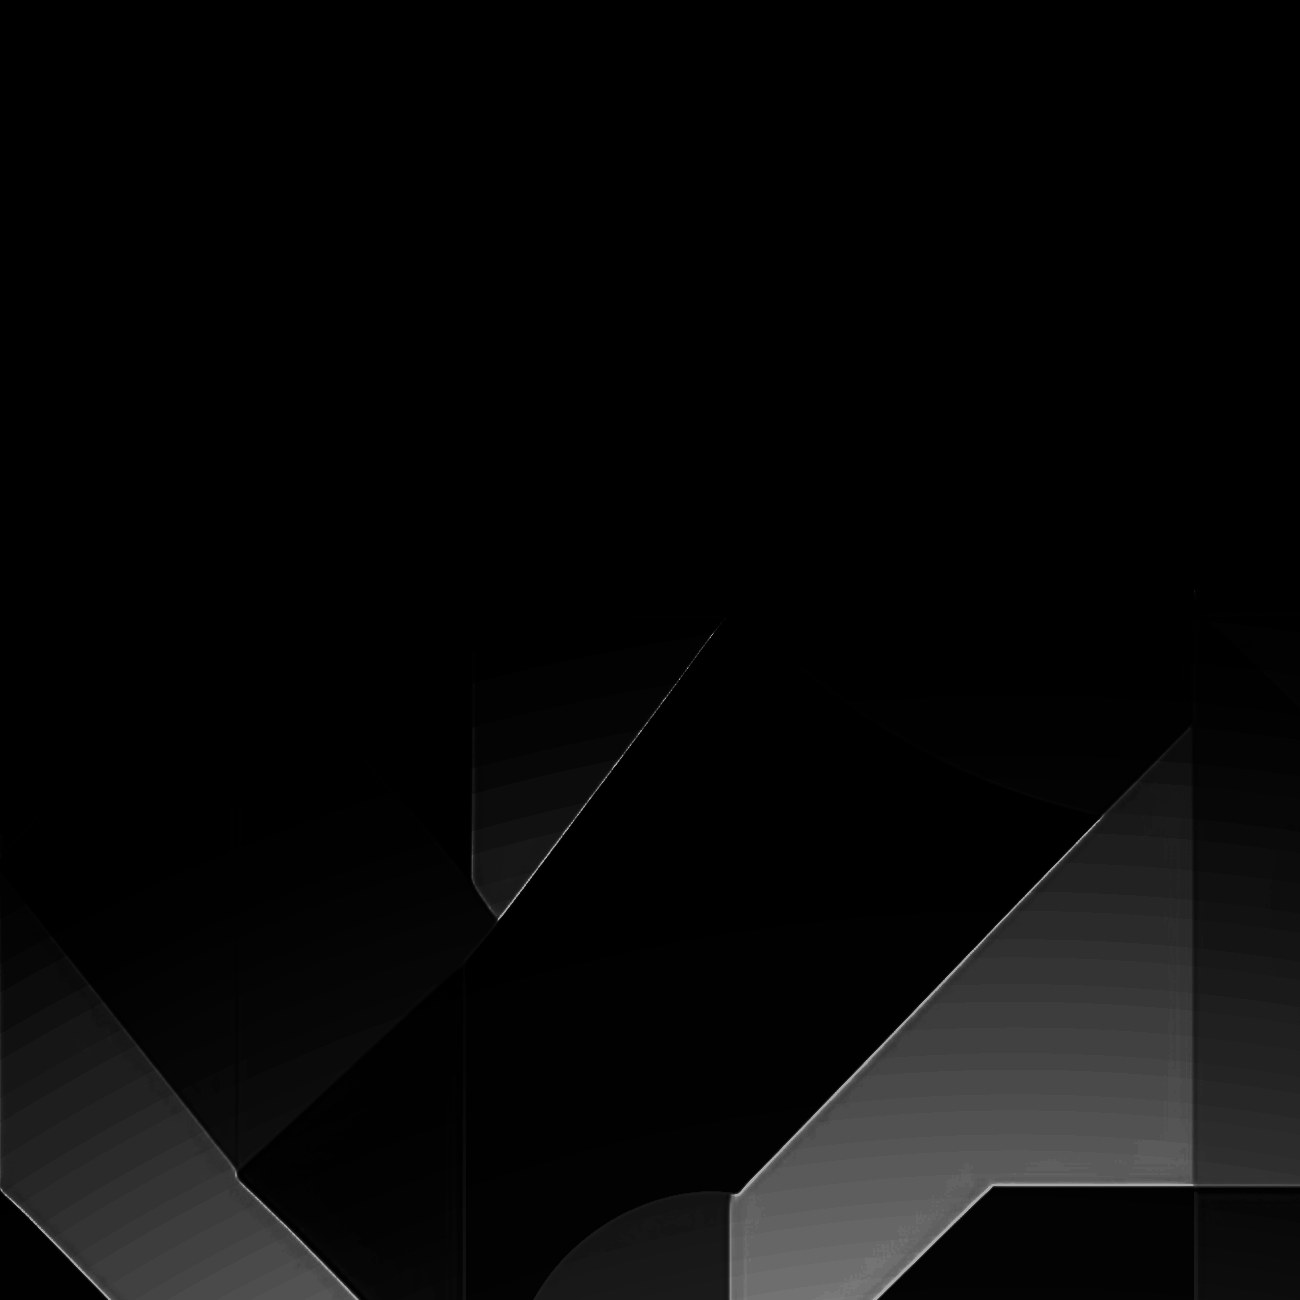
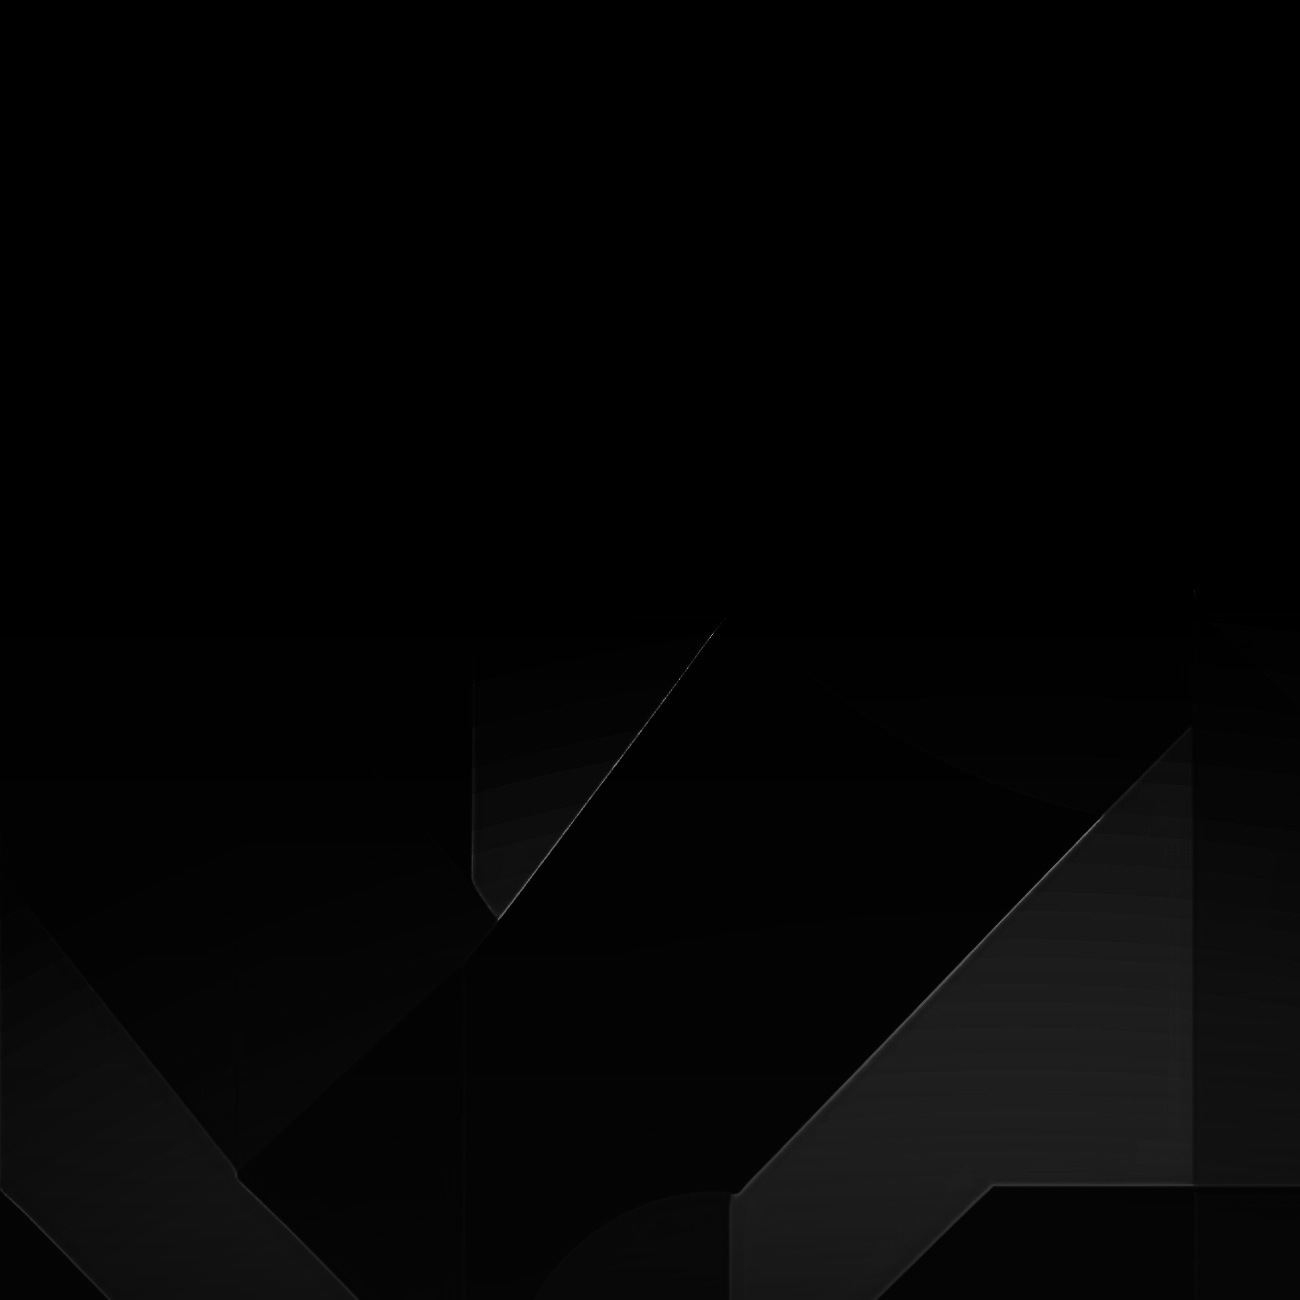
Template 10 · Xadrez: atribuído à Marketing Raiz; fade escuro de baixo para cima na capa e no fim (por trás das peças, na frente do cinza)
Claude-Session: https://claude.ai/code/session_017mkQW885k4H9tbGerhJzi7

Changed region(s): [[0.5538, 0.7077, 1.0, 1.0], [0.0, 0.8308, 0.2769, 1.0]]

diff --git a/server.js b/server.js
@@ -2616,7 +2616,7 @@ const TEMPLATES_CASA = [
     seq: [{ modelo: 'fogo-capa', papel: 'capa' }, { modelo: 'fogo-lista', repetir: true }, { modelo: 'fogo-fim', papel: 'fim' }] },
   { id: 'identidade-roxo', marcas: ['Sim Intermediações', 'Seguidores em Alta'], nome: '9 · Identidade visual (roxo)', nivel: 'robusto', formatos: ['carrossel'], uso: 'Carrossel educativo em blocos (conceito explicado em 2 a 6 tópicos curtos): réplica aprovada do kit roxo de meta-design. Capa com chamada de 2 linhas, título espaçado e palavra gigante em itálico, @ da marca e o robô roxo; miolo roxo com 2 blocos por página (título curto + texto de 5 a 7 linhas com **negrito**); fim claro com 2 blocos e a caixa tracejada do CTA. Sem ícones de curtida nem contato. Fonte do texto = a da marca.',
     seq: [{ modelo: 'idv-capa', papel: 'capa' }, { modelo: 'idv-texto', repetir: true }, { modelo: 'idv-fim', papel: 'fim' }] },
-  { id: 'xadrez', nome: '10 · Xadrez (mostarda)', nivel: 'robusto', formatos: ['carrossel'], uso: 'Carrossel de estratégia, segredos, jogo de mercado ou decisões (ex.: "3 segredos que ninguém te conta"): réplica aprovada do kit de agência com peças de xadrez. Capa preta com etiquetas brancas, palavra-explosão mostarda e reis 3D (foto do assunto opcional no alto); miolo bege com até 3 itens numerados ou frase forte; fim preto com prédios e a pergunta/CTA. Sem rodapé de agência; arraste só na capa. As peças de xadrez podem ir para outros carrosséis quando o assunto for estratégia.',
+  { id: 'xadrez', marcas: ['Marketing Raiz'], nome: '10 · Xadrez (mostarda)', nivel: 'robusto', formatos: ['carrossel'], uso: 'Carrossel de estratégia, segredos, jogo de mercado ou decisões (ex.: "3 segredos que ninguém te conta"): réplica aprovada do kit de agência com peças de xadrez. Capa preta com etiquetas brancas, palavra-explosão mostarda e reis 3D (foto do assunto opcional no alto); miolo bege com até 3 itens numerados ou frase forte; fim preto com prédios e a pergunta/CTA. Sem rodapé de agência; arraste só na capa. As peças de xadrez podem ir para outros carrosséis quando o assunto for estratégia.',
     seq: [{ modelo: 'xadrez-capa', papel: 'capa' }, { modelo: 'xadrez-lista', repetir: true }, { modelo: 'xadrez-fim', papel: 'fim' }] },
   { id: 'tipos-clientes', nome: '11 · Tipos de clientes (verde neon)', nivel: 'robusto', formatos: ['carrossel'], uso: 'Carrossel de tipos, categorias ou estágios (tipos de cliente, níveis, fases do funil): réplica aprovada do kit verde de meta-design. Capa com o busto de óculos na moldura branca, título em caixa alta e apoio verde; miolo na prancheta do Photoshop com uma ideia por página (ícone, título, definição em negrito com trecho _sublinhado_ e nota com *palavras verdes*), com busto quebrado, cavalo e maleta cruzando as divisas; fim com a logo da marca no anel verde e o CTA (decisão do dono: sai o selo do foguete e o contato). Combina com a Central do Marketing.',
     seq: [{ modelo: 'clientes-capa', papel: 'capa' }, { modelo: 'clientes-bloco', repetir: true }, { modelo: 'clientes-fim', papel: 'fim' }] },

diff --git a/conhecimento/agentes/designer/23-templates-por-marca.md b/conhecimento/agentes/designer/23-templates-por-marca.md
@@ -13,6 +13,7 @@ Marcas institucionais (Atlas Hosting, SimIntPay, Sim Intermediações, Teron, Pa
 | 5 · Manchete com perfil | Seguidores em Alta, Marketing Raiz |
 | 7 · Lista de erros (carrossel) | Seguidores em Alta |
 | 8 · Fogo (carrossel) | Marketing Raiz |
+| 10 · Xadrez (carrossel) | Marketing Raiz |
 | 9 · Identidade visual (carrossel) | Sim Intermediações (robô e leão originais), Seguidores em Alta (o mascote no lugar do robô e do leão, mesma pose e enquadramento) |
 
 Excluído pelo dono (19/11/2026): 6 · Manchete sobre foto com logo (ficava igual ao 5). Formatos de notícia: Zyrion (foto inteira, duas fotos ou círculo), Nuvo, Manchete com perfil; contracapa (cartão do X) acompanha Zyrion e Nuvo.
